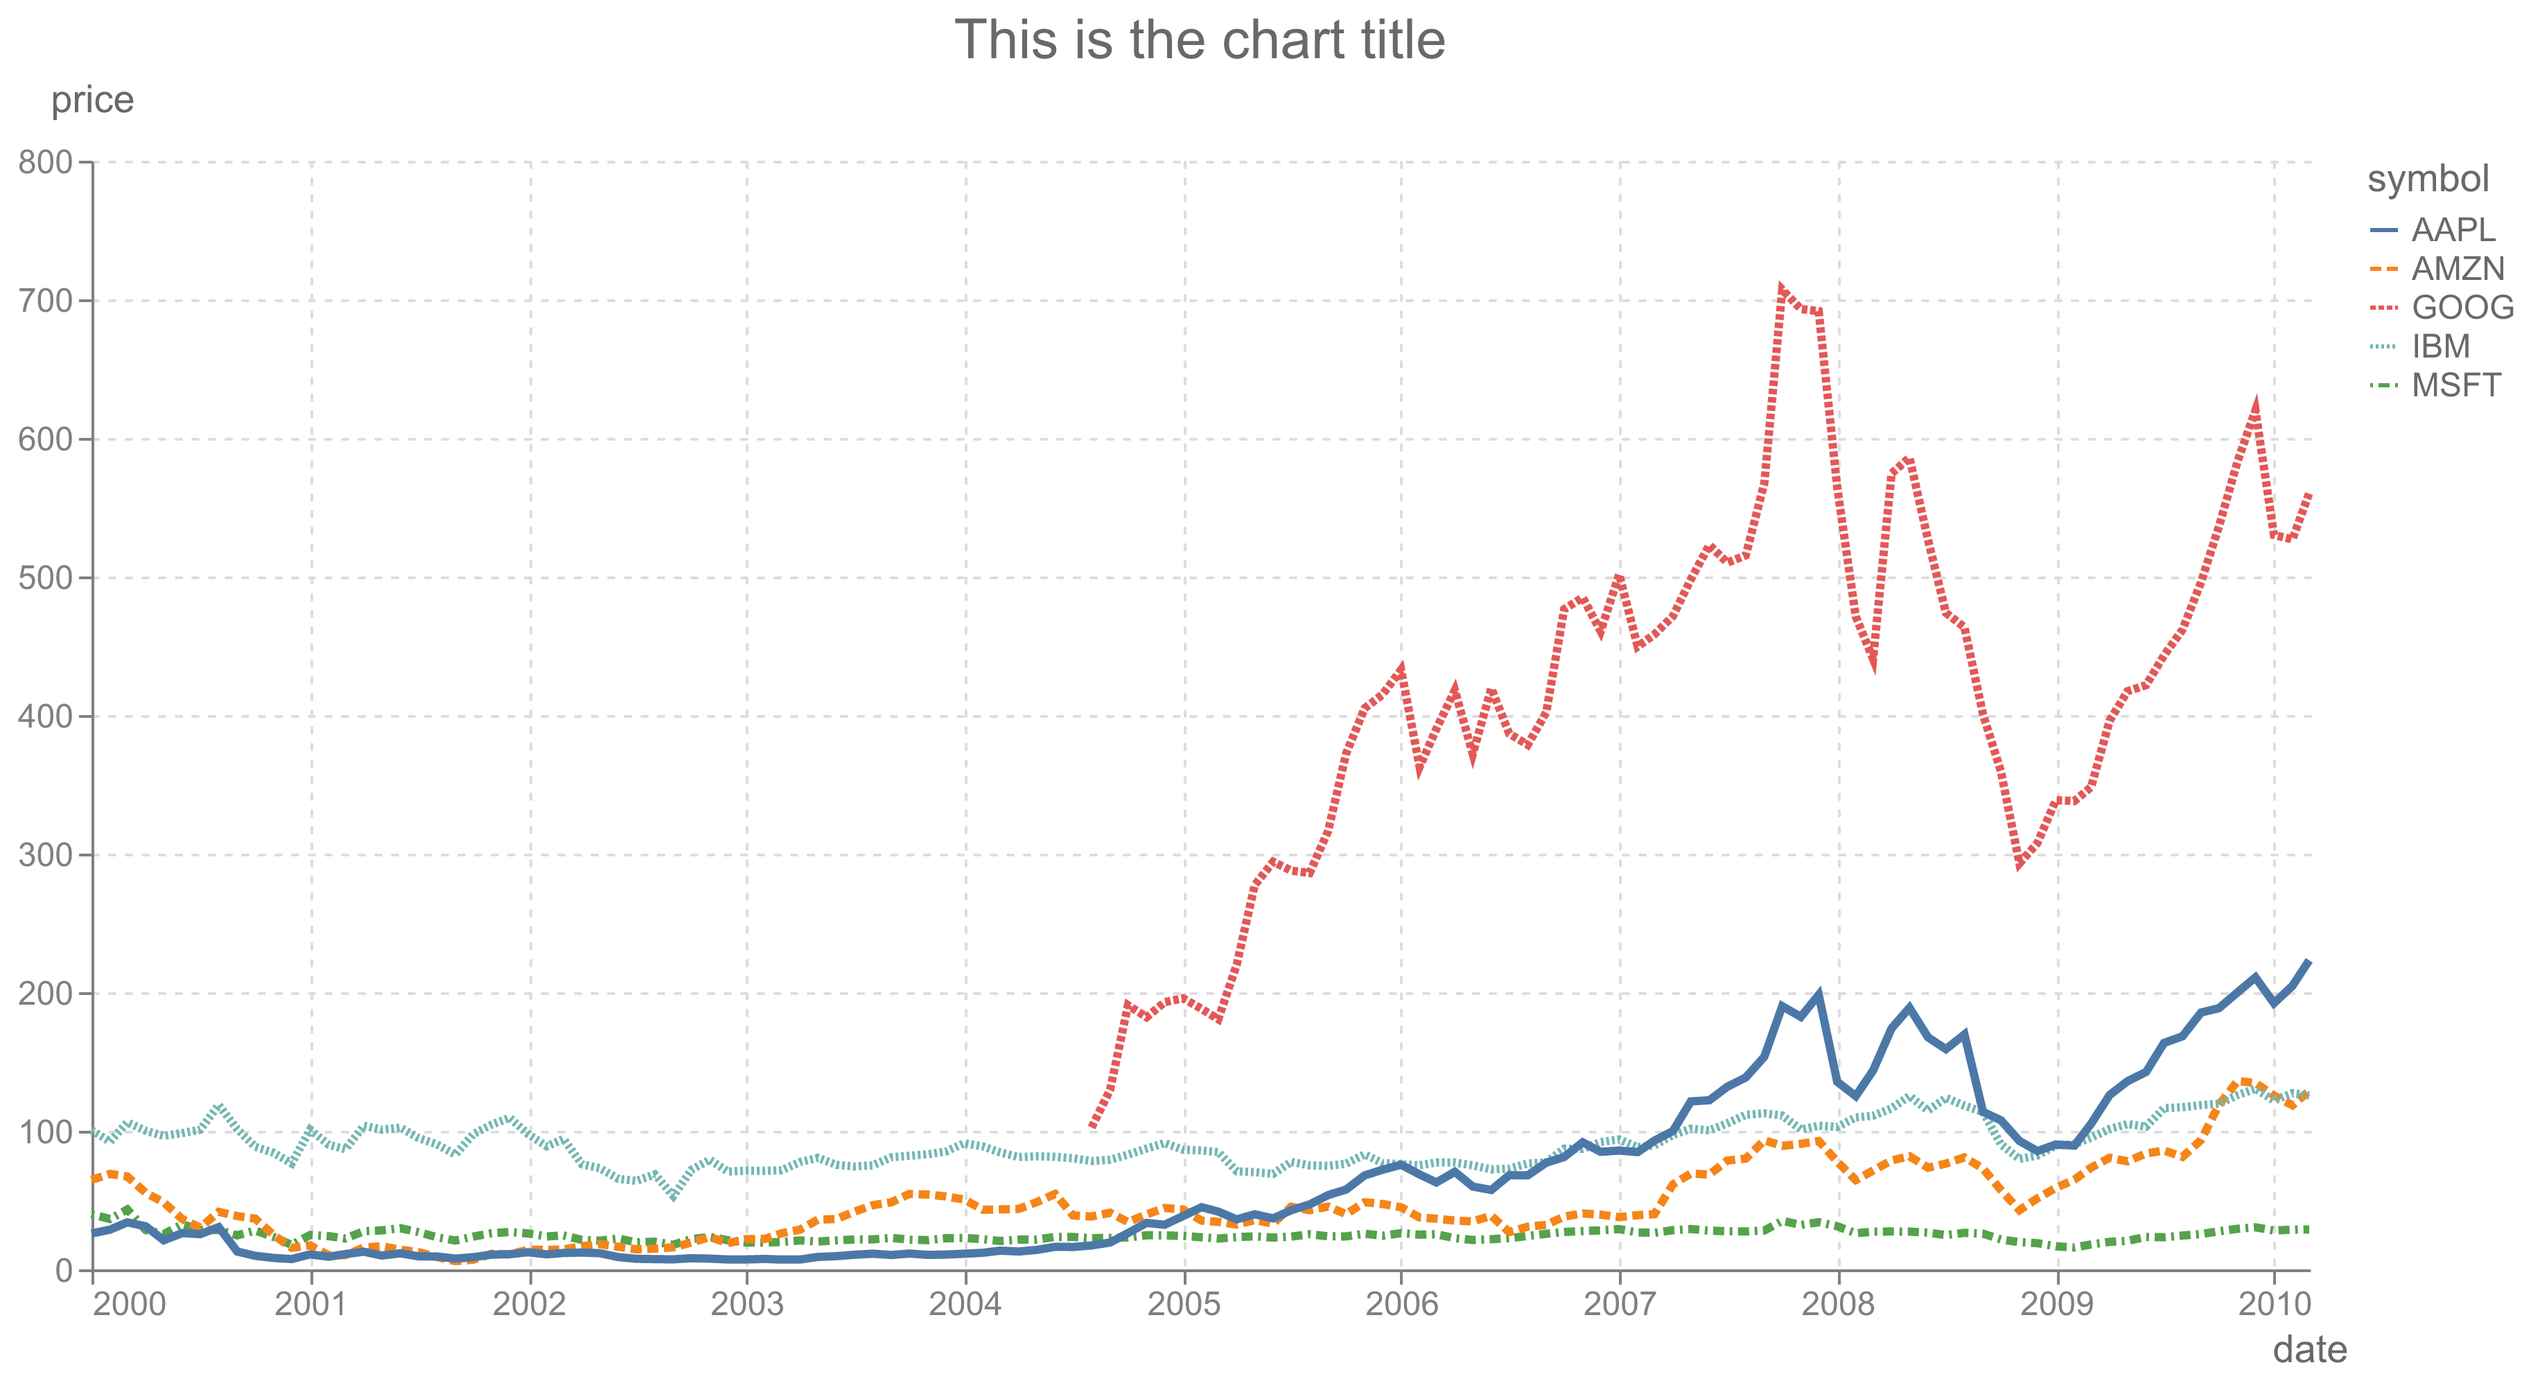
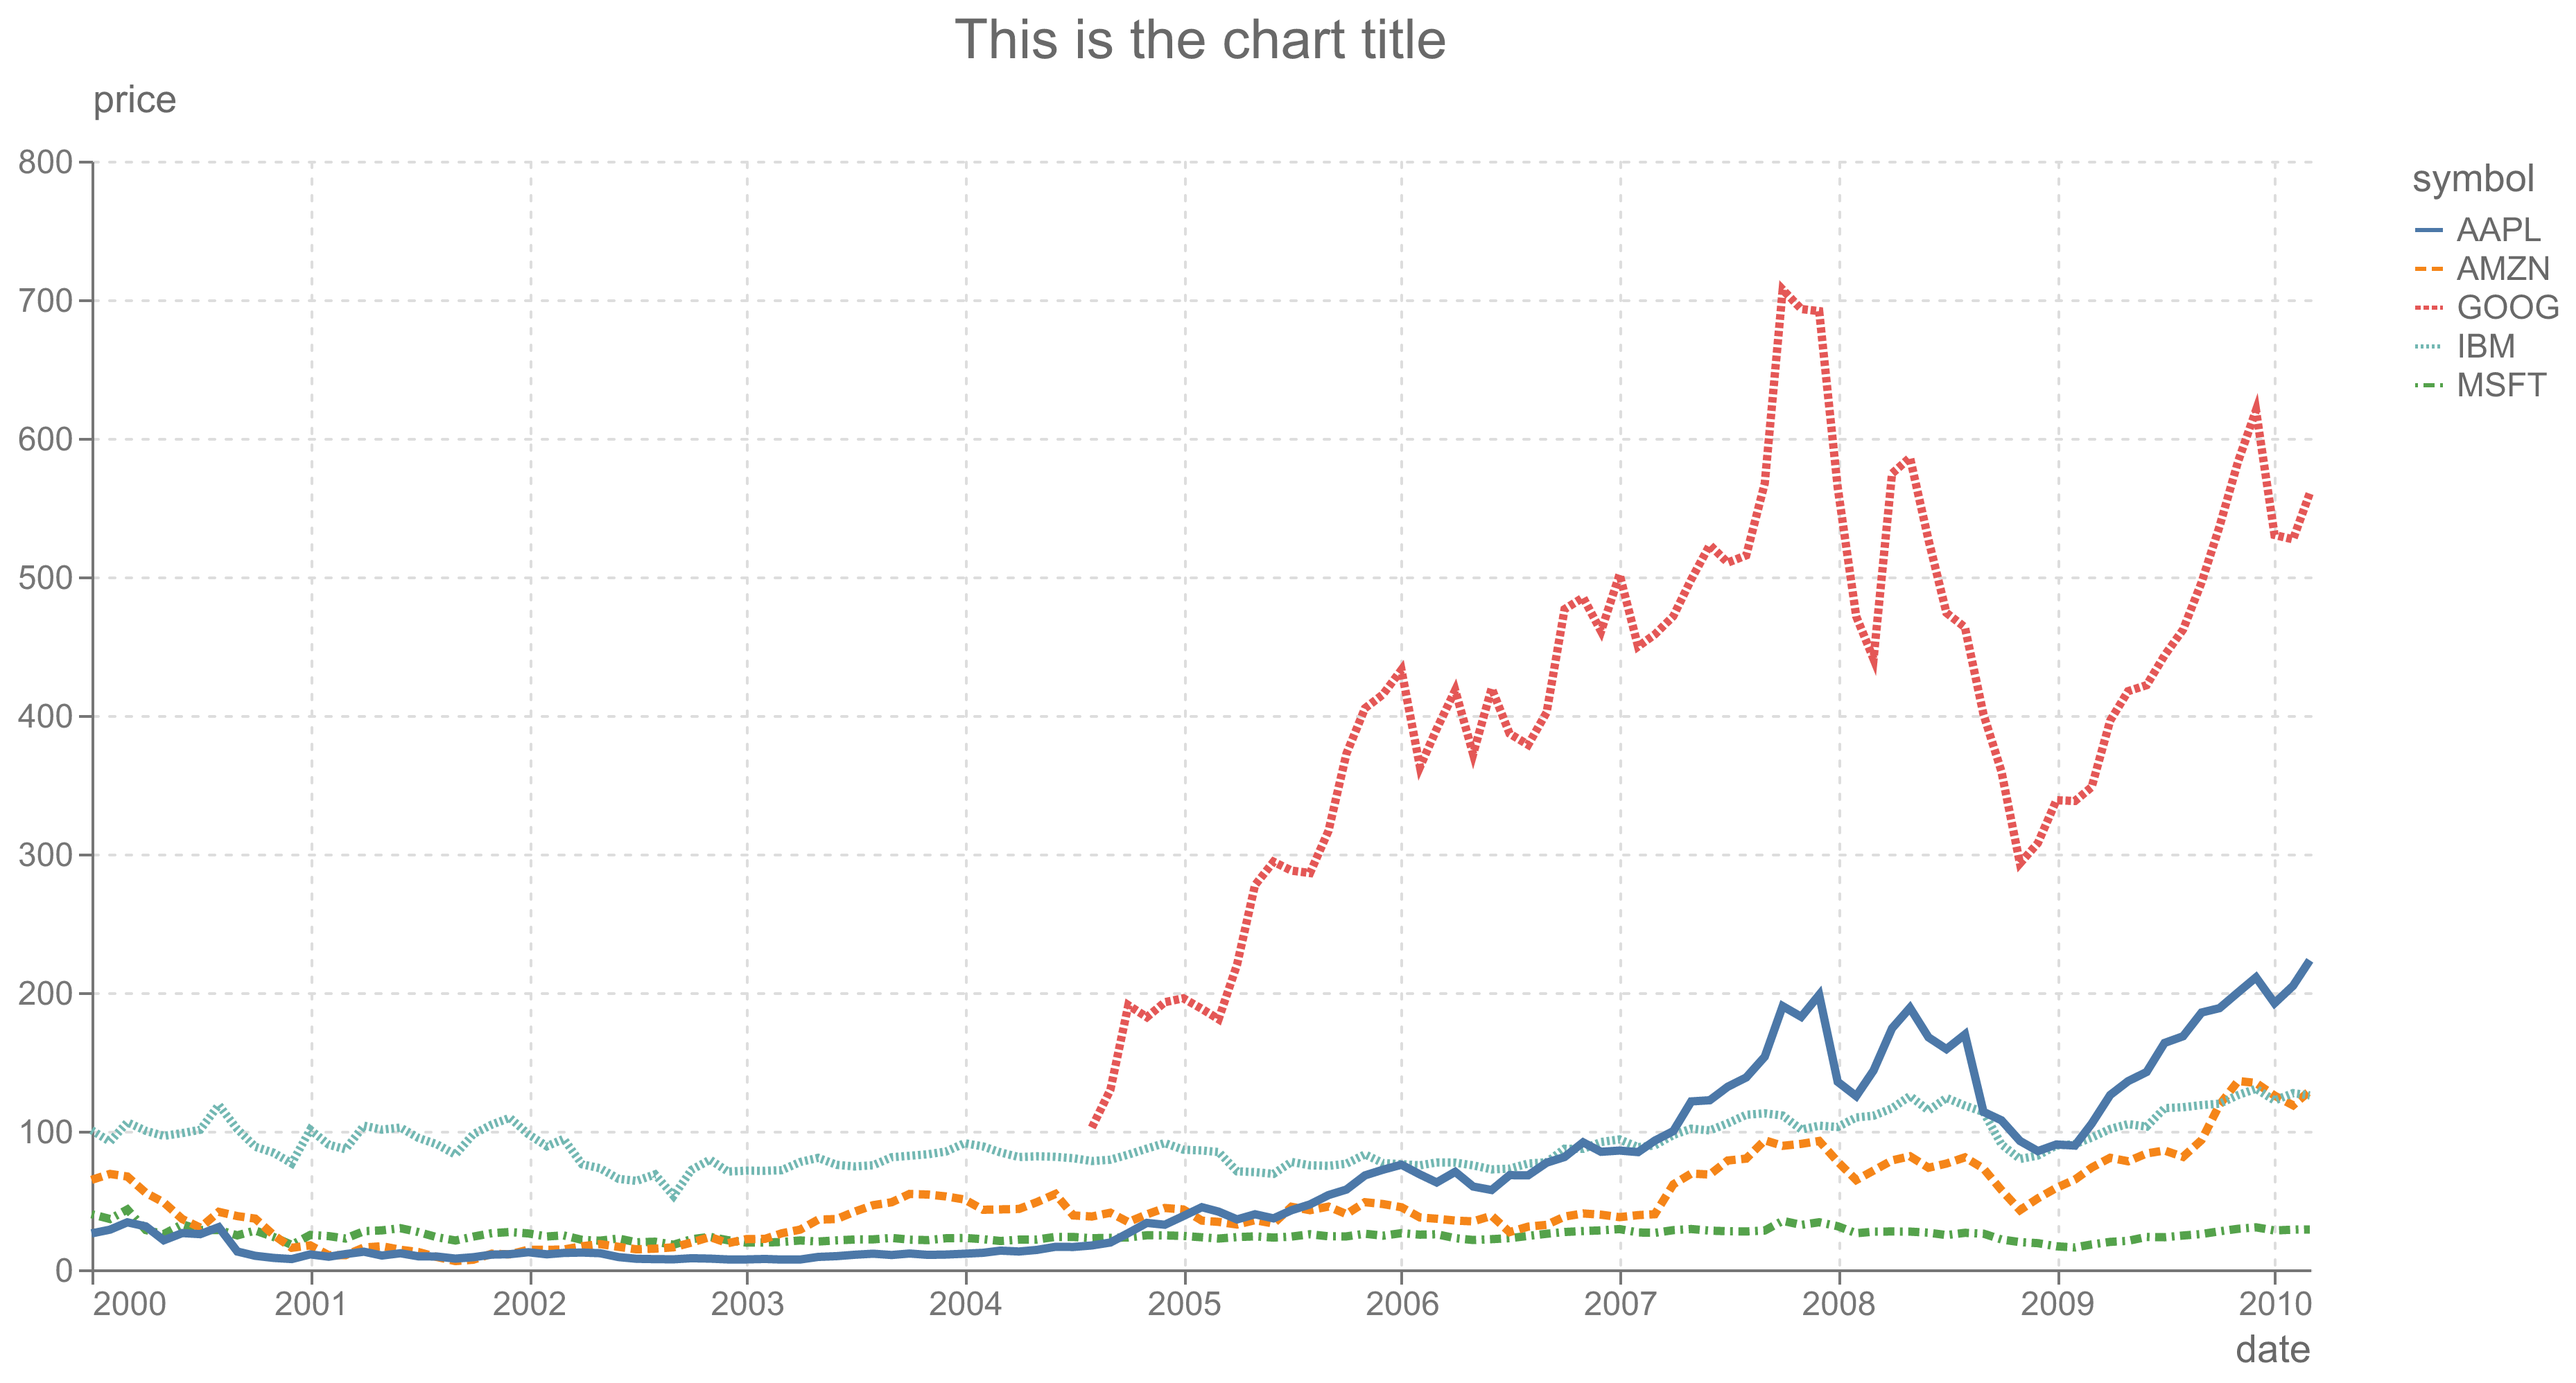
Fix package metadata and rewrite the README
Packaging:
- repository/homepage/documentation were top-level [project] keys,
  which PEP 621 does not define, so the published 0.1.0 has no project
  URLs (and an empty summary). Move the links to [project.urls] and drop
  the documentation URL, which returns 404. Add a description, an SPDX
  license expression (needs hatchling >= 1.27), keywords and
  classifiers (Python 3.11-3.14 are tested).
- Restrict the sdist to src/, tests/, README and LICENSE. The 0.1.0
  sdist shipped .claude/settings.local.json, .github/, uv.lock and other
  local files.

README:
- Use absolute image URLs so the images also render on PyPI.
- Document enabling without an import, the dark variant, customising via
  Config/build_theme, the colour-blind caveat of the default palette and
  a few layout notes; all snippets were run.

create_charts.py gets a main() entry point and writes next to the
script, ty now checks it, and the README images are regenerated with the
current theme.

diff --git a/create_charts.py b/create_charts.py
@@ -1,14 +1,18 @@
+"""Render the example charts shown in the README."""
+
+from pathlib import Path
+
 import altair as alt
 from vega_datasets import data
 
-from camminady_altair_theme import camminady  # noqa
+ASSETS = Path(__file__).parent / "assets"
 
-alt.theme.enable("camminady")
 
-if __name__ == "__main__":
-    source = data.stocks()
+def main() -> None:
+    # The theme is found through its entry point; no import is needed.
+    alt.theme.enable("camminady")
     base = (
-        alt.Chart(source)
+        alt.Chart(data.stocks())
         .mark_line(strokeWidth=3)
         .encode(
             x="date:T",
@@ -18,8 +22,11 @@ if __name__ == "__main__":
         )
         .properties(title="This is the chart title")
     )
-
-    base.save("assets/single_chart.png", scale_factor=4)
+    base.save(ASSETS / "single_chart.png", scale_factor=4)
     base.encode(row="symbol:N").properties(height=100).save(
-        "assets/facet_chart.png", scale_factor=4
+        ASSETS / "facet_chart.png", scale_factor=4
     )
+
+
+if __name__ == "__main__":
+    main()

diff --git a/README.md b/README.md
@@ -1,26 +1,100 @@
 # camminady_altair_theme
 
-A minimal Altair theme.
+A minimal [Altair](https://altair-viz.github.io) theme: muted gray text,
+dashed grid lines, no frame around the plot, and horizontal axis titles at the
+end of each axis. It comes in a light (`camminady`) and a dark
+(`camminady_dark`) variant.
+
+![Single Chart](https://raw.githubusercontent.com/thomascamminady/camminady_altair_theme/main/assets/single_chart.png)
 
 ## Installation
 
 ```bash
-pip install camminady_altair_theme
+uv add camminady-altair-theme
+# or
+pip install camminady-altair-theme
 ```
+
+Requires Python 3.11+ and Altair 6.
 
 ## Usage
 
 ```python
 import altair as alt
-from camminady_altair_theme import camminady
 
-alt.theme.enable("camminady")
+alt.theme.enable("camminady")  # or "camminady_dark"
 ```
+
+There is no need to import the package: it registers both themes through
+Altair's theme entry points. Importing `camminady_altair_theme` registers the
+themes but does not enable them (before 0.2.0, importing the package enabled
+the theme).
+
+To use the theme for a single chart only:
+
+```python
+with alt.theme.enable("camminady"):
+    chart.save("chart.png")
+```
+
+### Customising
+
+All colours, font sizes and default dimensions are fields of `Config`. Build
+your own variant from it:
+
+```python
+import altair as alt
+from camminady_altair_theme import Config, build_theme
+
+
+@alt.theme.register("camminady_small", enable=True)
+def camminady_small() -> alt.theme.ThemeConfig:
+    return build_theme(Config(width=400, height=250))
+```
+
+Individual charts can still override anything with `chart.configure_*(...)`.
+
+### Colour-blind safety
+
+The theme keeps Vega's default `tableau10` category palette. Its third (red)
+and fifth (green) colours are nearly indistinguishable for people with
+deuteranopia, so for five or more categories use the bundled Okabe-Ito
+palette:
+
+```python
+from camminady_altair_theme import OKABE_ITO
+
+chart.encode(color=alt.Color("group:N").scale(range=OKABE_ITO))
+```
+
+### Layout notes
+
+- Single views are 800 × 400 px by default, for continuous and discrete axes.
+- The y-axis title sits horizontally above the y axis and the x-axis title at
+  the right end of the x axis. Legends (also with `orient="top"`) and facet
+  headers are placed so that they do not overlap these titles.
+- X-axis labels are horizontal, also for categorical axes. For many or long
+  category names, rotate them (`alt.Axis(labelAngle=-45)`) or use a
+  horizontal bar chart.
+- With an x axis at the top (`orient="top"`), the y-axis title overlaps its
+  labels; move it up with `alt.Y(..., axis=alt.Axis(titleY=-45))`.
 
 ## Examples
 
 A simple chart.
-![Single Chart](assets/single_chart.png)
+
+![Single Chart](https://raw.githubusercontent.com/thomascamminady/camminady_altair_theme/main/assets/single_chart.png)
 
 And a faceted version.
-![Facet Chart](assets/facet_chart.png)
+
+![Facet Chart](https://raw.githubusercontent.com/thomascamminady/camminady_altair_theme/main/assets/facet_chart.png)
+
+## Development
+
+```bash
+uv sync
+uv run pytest
+uv run ruff check . && uv run ruff format --check .
+uv run ty check
+uv run python create_charts.py  # regenerate the images above
+```
